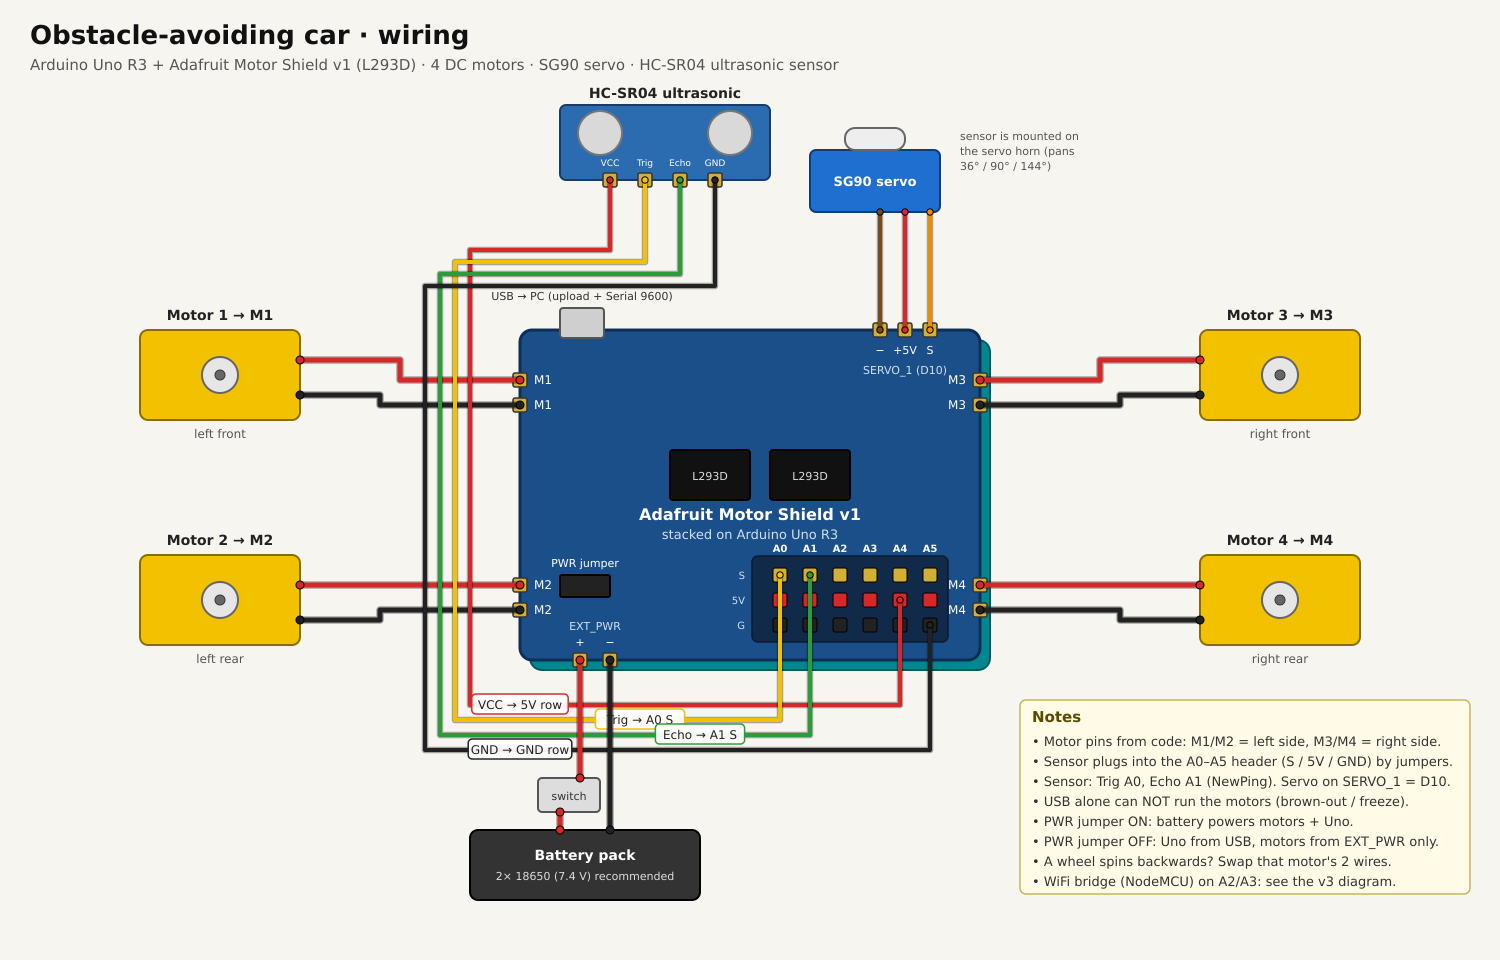
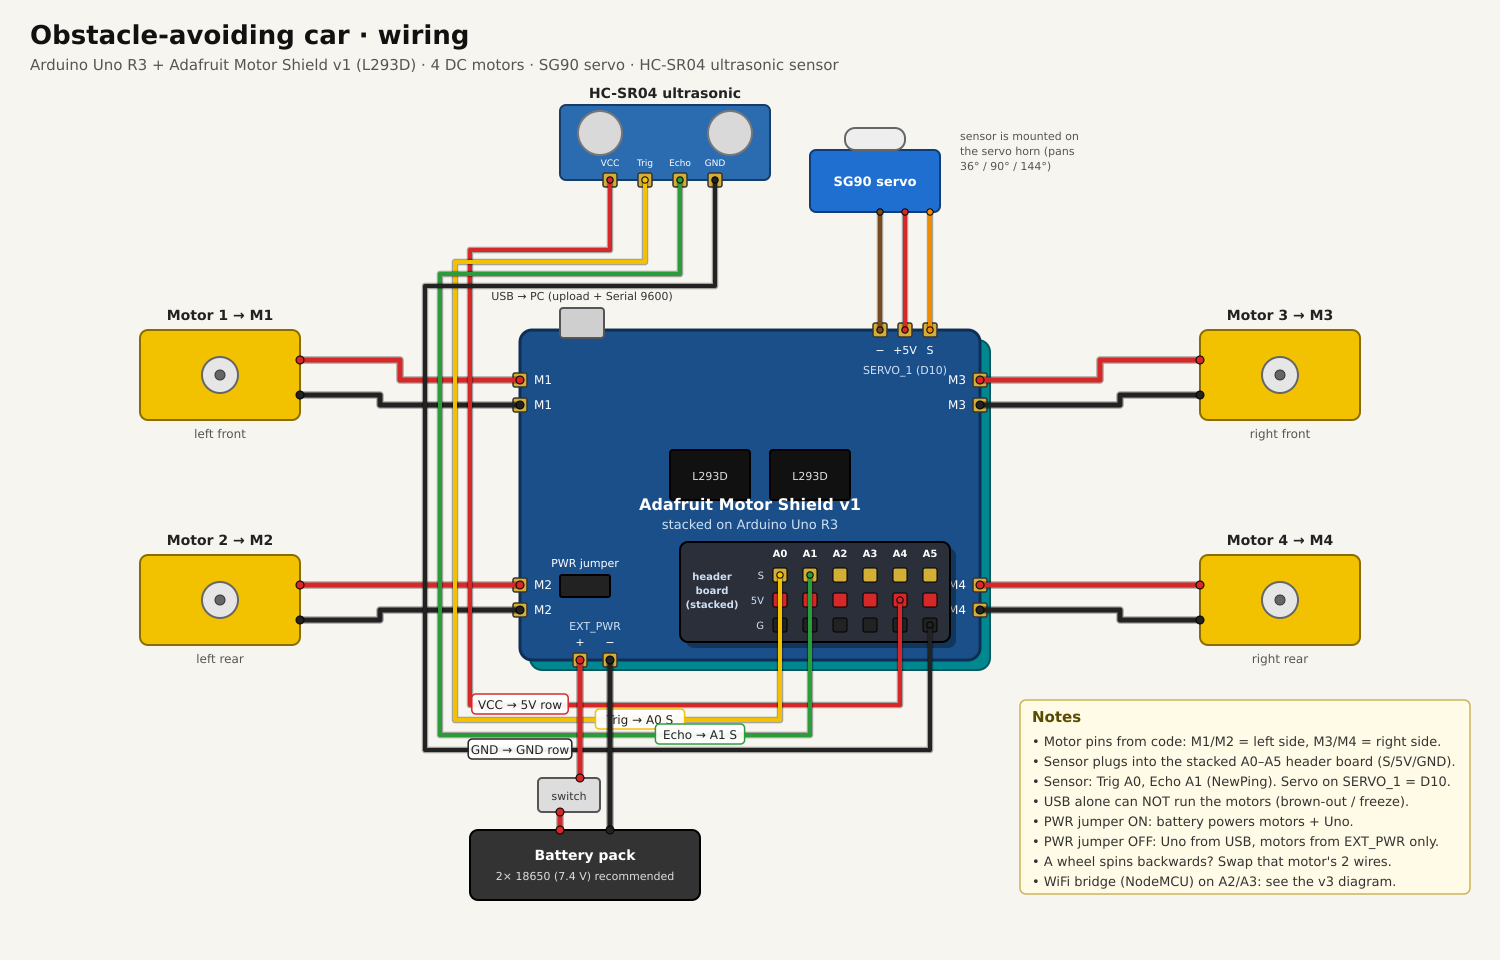
Docs: draw the A0-A5 header as its own stacked board (#3)
Claude-Session: https://claude.ai/code/session_015okV5xhpTSJ7BsUHd5BTGs

Changed region(s): [[0.4293, 0.5, 0.644, 0.6875], [0.7973, 0.7812, 0.9813, 0.8125]]

diff --git a/docs/src/gen_car.py b/docs/src/gen_car.py
@@ -13,8 +13,8 @@ s.rect(X0 + 150, Y0 + 120, 80, 50, fill="#111", stroke="#000", rx=3)            
 s.rect(X0 + 250, Y0 + 120, 80, 50, fill="#111", stroke="#000", rx=3)
 s.text(X0 + 190, Y0 + 150, "L293D", 11, "#ddd", "middle")
 s.text(X0 + 290, Y0 + 150, "L293D", 11, "#ddd", "middle")
-s.text(X0 + BW / 2, Y0 + 190, "Adafruit Motor Shield v1", 16, "#fff", "middle", "bold")
-s.text(X0 + BW / 2, Y0 + 209, "stacked on Arduino Uno R3", 13, "#cfe0f5", "middle")
+s.text(X0 + BW / 2, Y0 + 180, "Adafruit Motor Shield v1", 16, "#fff", "middle", "bold")
+s.text(X0 + BW / 2, Y0 + 199, "stacked on Arduino Uno R3", 13, "#cfe0f5", "middle")
 s.rect(X0 + 40, Y0 + 245, 50, 22, fill="#222", stroke="#000", rx=2)
 s.text(X0 + 65, Y0 + 237, "PWR jumper", 11, "#fff", "middle")
 s.rect(X0 + 40, Y0 - 22, 44, 30, fill="#cfcfcf", stroke="#555", rx=3)                   # USB-B on Uno
@@ -43,14 +43,16 @@ s.text(905, Y0 + 44, "SERVO_1 (D10)", 11, "#cfe0f5", "middle")
 # A0-A5 3-row header on the shield (signal / 5V / GND), servo-style: sensor plugs in with female jumpers
 COLS = {f"A{i}": 780 + i * 30 for i in range(6)}
 HS, H5, HG = 575, 600, 625
-s.rect(752, 556, 196, 86, fill="#122a4a", stroke="#0a1a30", sw=1.5, rx=6)
+s.rect(686, 548, 270, 100, fill="#00000055", stroke="none", sw=0, rx=8)
+s.rect(680, 542, 270, 100, fill="#2a2f3a", stroke="#000", sw=2, rx=8)
+s.lines(712, 580, ["header", "board", "(stacked)"], 10, "#cfe0f5", gap=14, anchor="middle", weight="bold")
 s.text(850, 653 - 2, "", 1)
 for i, (k, x) in enumerate(COLS.items()):
-    s.text(x, 552, k, 10, "#fff", "middle", "bold")
+    s.text(x, 557, k, 10, "#fff", "middle", "bold")
     for yy, f in ((HS, "#d4af37"), (H5, "#d62828"), (HG, "#222")):
         s.rect(x - 7, yy - 7, 14, 14, fill=f, stroke="#000", sw=1, rx=2)
 for lab, yy in (("S", HS), ("5V", H5), ("G", HG)):
-    s.text(745, yy + 4, lab, 10, "#cfe0f5", "end")
+    s.text(764, yy + 4, lab, 10, "#cfe0f5", "end")
 
 # external power terminal (bottom edge)
 for lab, x in (("+", 580), ("−", 610)):
@@ -121,7 +123,7 @@ s.wire([(610, 830), (610, Y0 + BH)], "black", 5)
 
 s.legend_box(1020, 700, 450, [
     "• Motor pins from code: M1/M2 = left side, M3/M4 = right side.",
-    "• Sensor plugs into the A0–A5 header (S / 5V / GND) by jumpers.",
+    "• Sensor plugs into the stacked A0–A5 header board (S/5V/GND).",
     "• Sensor: Trig A0, Echo A1 (NewPing). Servo on SERVO_1 = D10.",
     "• USB alone can NOT run the motors (brown-out / freeze).",
     "• PWR jumper ON: battery powers motors + Uno.",

diff --git a/README.md b/README.md
@@ -13,7 +13,7 @@
 | 4× TT DC gear motors + wheels | M1/M2 = left, M3/M4 = right |
 | SG90 micro servo | `SERVO_1` header = pin D10 |
 | HC-SR04 ultrasonic sensor | Mounted on the servo horn. Trig A0, Echo A1 |
-| 3-row A0–A5 header on the shield (S / 5V / GND, servo-style) | The sensor plugs in with female jumper wires, so there's no soldering. The WiFi bridge uses A2/A3 the same way. |
+| Small A0–A5 header board, stacked on the shield (S / 5V / GND rows, servo-style) | The sensor plugs in with female jumper wires, so there's no soldering. The WiFi bridge uses A2/A3 the same way. |
 | Battery pack | 2× 18650 (7.4 V) recommended → `EXT_PWR`. **USB alone can't run the motors.** |
 
 ## Wiring
